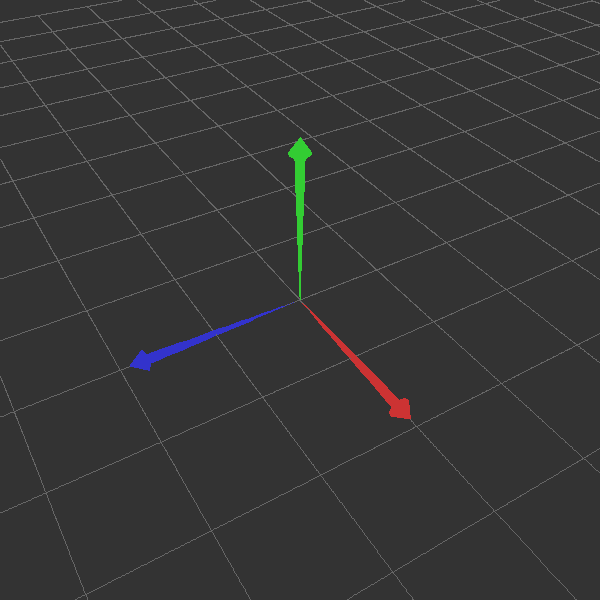
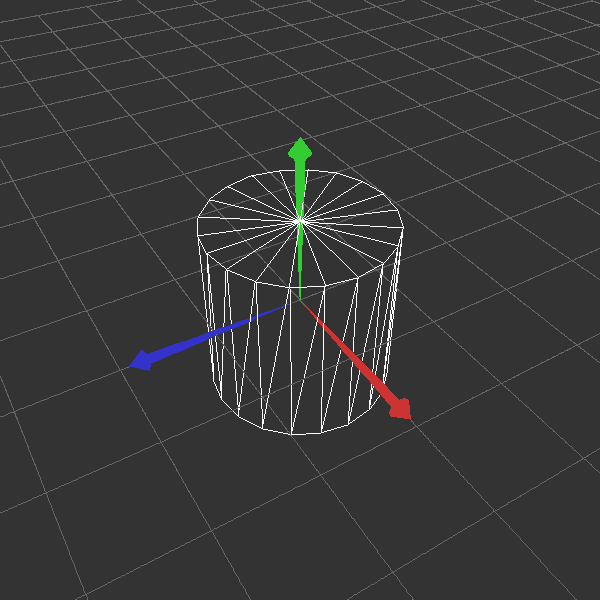
work

diff --git a/model/src/modeler/shape/Cylinder.java b/model/src/modeler/shape/Cylinder.java
@@ -45,25 +45,22 @@ public class Cylinder extends Shape {
 		Vector3f[] normals = generateNormals(numFacets);
 		Point3i[] triangles = generateTriangles(numFacets);
 
+		//Print Result of Generating
 		System.out.println("-------------------------");
 		System.out.println("flatnessTolerance: " + flatnessTolerance);
 		System.out.println("numFacets: " + numFacets);
-		System.out.println("Vertices:");
-		for (Point3f vertex : vertices) {
-			System.out.println(vertex);
-		}
-
-		// Printing normals
-		System.out.println("Normals:");
-		for (Vector3f normal : normals) {
-			System.out.println(normal);
-		}
-
-		// Printing triangles
-		System.out.println("Triangles:");
-		for (Point3i triangle : triangles) {
-			System.out.println(triangle);
-		}
+		// System.out.println("Vertices:");
+		// for (Point3f vertex : vertices) {
+		// 	System.out.println(vertex);
+		// }
+		// System.out.println("Normals:");
+		// for (Vector3f normal : normals) {
+		// 	System.out.println(normal);
+		// }
+		// System.out.println("Triangles:");
+		// for (Point3i triangle : triangles) {
+		// 	System.out.println(triangle);
+		// }
 		System.out.println("-------------------------");
 
 		//Build the mesh data arrays from the static mesh data
@@ -100,14 +97,9 @@ public class Cylinder extends Shape {
 
 	int generateFacets(float flatnessTolerance)
 	{
-		
-		int numFacets = (int) (Math.PI / Math.asin((1-flatnessTolerance)/2));
-		
-		//ensure even
-		numFacets = numFacets % 2 == 0 ? numFacets : numFacets + 1;
-		//ensure >= 6
-		numFacets = Math.max(6, numFacets);
+		//todo .014 should be 20 facets
 
+		int numFacets = 20;
 		return numFacets;
 	}
 
@@ -126,7 +118,7 @@ public class Cylinder extends Shape {
 			//add origin as last point
 			if (i == numVertices-1)
 			{
-				vertices[i] = new Point3f(0, -1, 0);
+				vertices[i] = new Point3f(0, -CYLINDER_HEIGHT/2, 0);
 			}
 		}
 
@@ -140,7 +132,7 @@ public class Cylinder extends Shape {
 			//add origin as last point
 			if (i == (numVertices*2)-1)
 			{
-				vertices[i] = new Point3f(0, 1, 0);
+				vertices[i] = new Point3f(0, CYLINDER_HEIGHT/2, 0);
 			}
 		}
 
@@ -221,16 +213,18 @@ public class Cylinder extends Shape {
 			int topVertex1 = i + (numFacets+1);
 			int topVertex2 = i + (numFacets+1) + 1;
 
-			// System.out.println("bottom index1: " + bottomVertex1 + " index2: " + bottomVertex2);
-			// System.out.println("top index1: " + topVertex1 + " index2: " + topVertex2);
-			// System.out.println("triangleIndex: " + triangleIndex);
-		
+			//ensure last triangle loops back
+			if (i == numFacets-1)
+			{
+				bottomVertex2 = 0;
+				topVertex2 = numFacets+1;
+			}
+
 			triangles[triangleIndex] = new Point3i(bottomVertex1, topVertex1, bottomVertex2);
 			triangleIndex++;
 			triangles[triangleIndex] = new Point3i(bottomVertex2, topVertex1, topVertex2);
 			triangleIndex++;
 
-			//todo ensure last triangle loops back
 		}
 
 		return triangles;
